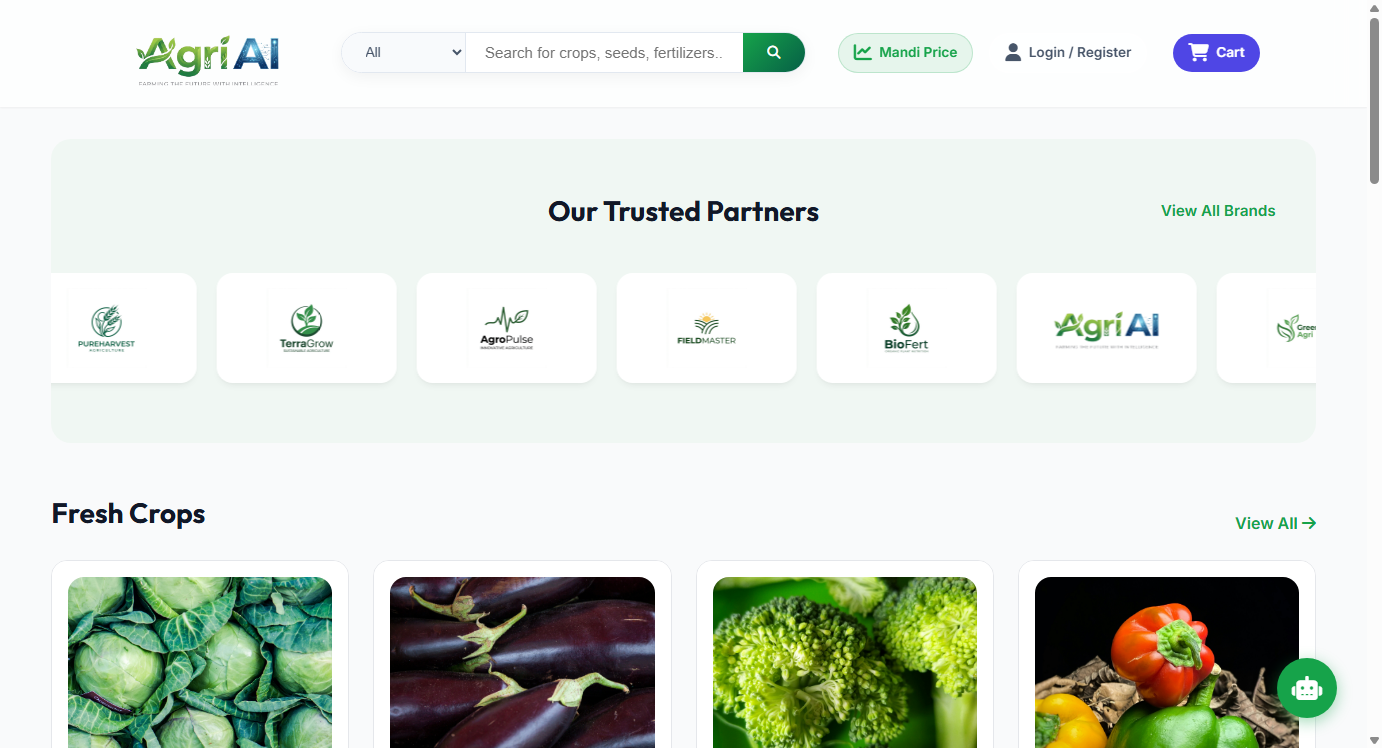
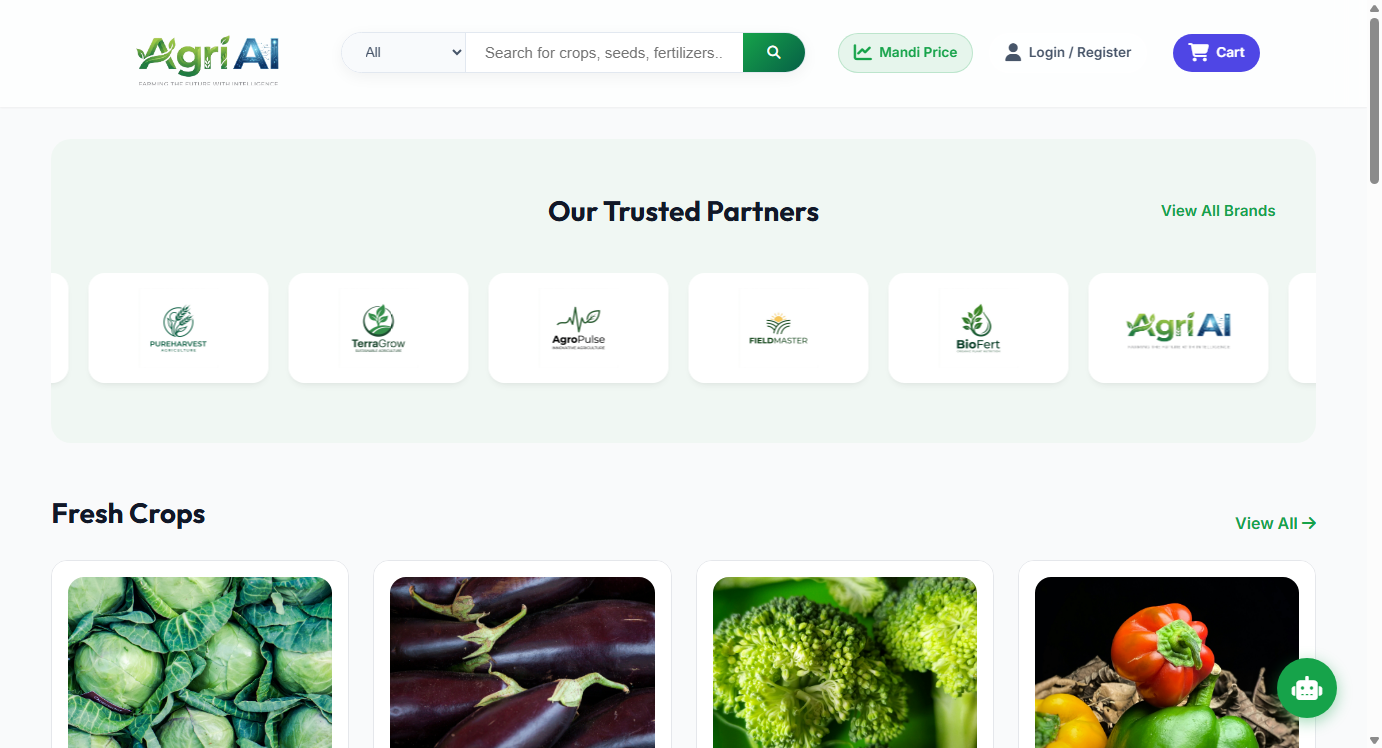
Update README and screenshots: Replace weather/market/seasonal/about with Admin and Buyer dashboards

diff --git a/README.md b/README.md
@@ -20,17 +20,17 @@ A comprehensive, full-stack **Smart Agriculture & E-Commerce Web Application** d
 | :---: | :---: |
 | ![Shop Crops](screenshots/03_shop_crops.png) | ![Seed Store](screenshots/04_seed_store.png) |
 
-| 🧪 Fertilizer & Chemical Store | 🌦 Live Weather Forecast |
+| 🧪 Fertilizer & Chemical Store | 🔐 Authentication & Roles |
 | :---: | :---: |
-| ![Chemical Store](screenshots/05_chemical_store.png) | ![Weather](screenshots/06_weather_forecast.png) |
+| ![Chemical Store](screenshots/05_chemical_store.png) | ![Login Portal](screenshots/10_login.png) |
 
-| 📈 Live Market Trends | 🗓 Seasonal Guide |
+| 📊 Admin Dashboard & Analytics | 📦 Admin Orders & Management |
 | :---: | :---: |
-| ![Market Trends](screenshots/07_market_trends.png) | ![Seasonal Guide](screenshots/08_seasonal_guide.png) |
+| ![Admin Dashboard](screenshots/06_admin_dashboard.png) | ![Admin Orders](screenshots/07_admin_orders.png) |
 
-| ℹ About Platform | 🔐 Authentication & Roles |
+| 🛍 Buyer Orders & Tracking | 🛒 Buyer Cart & Checkout |
 | :---: | :---: |
-| ![About Us](screenshots/09_about_us.png) | ![Login Portal](screenshots/10_login.png) |
+| ![Buyer Orders](screenshots/08_buyer_orders.png) | ![Buyer Cart](screenshots/09_buyer_cart.png) |
 
 ---
 
